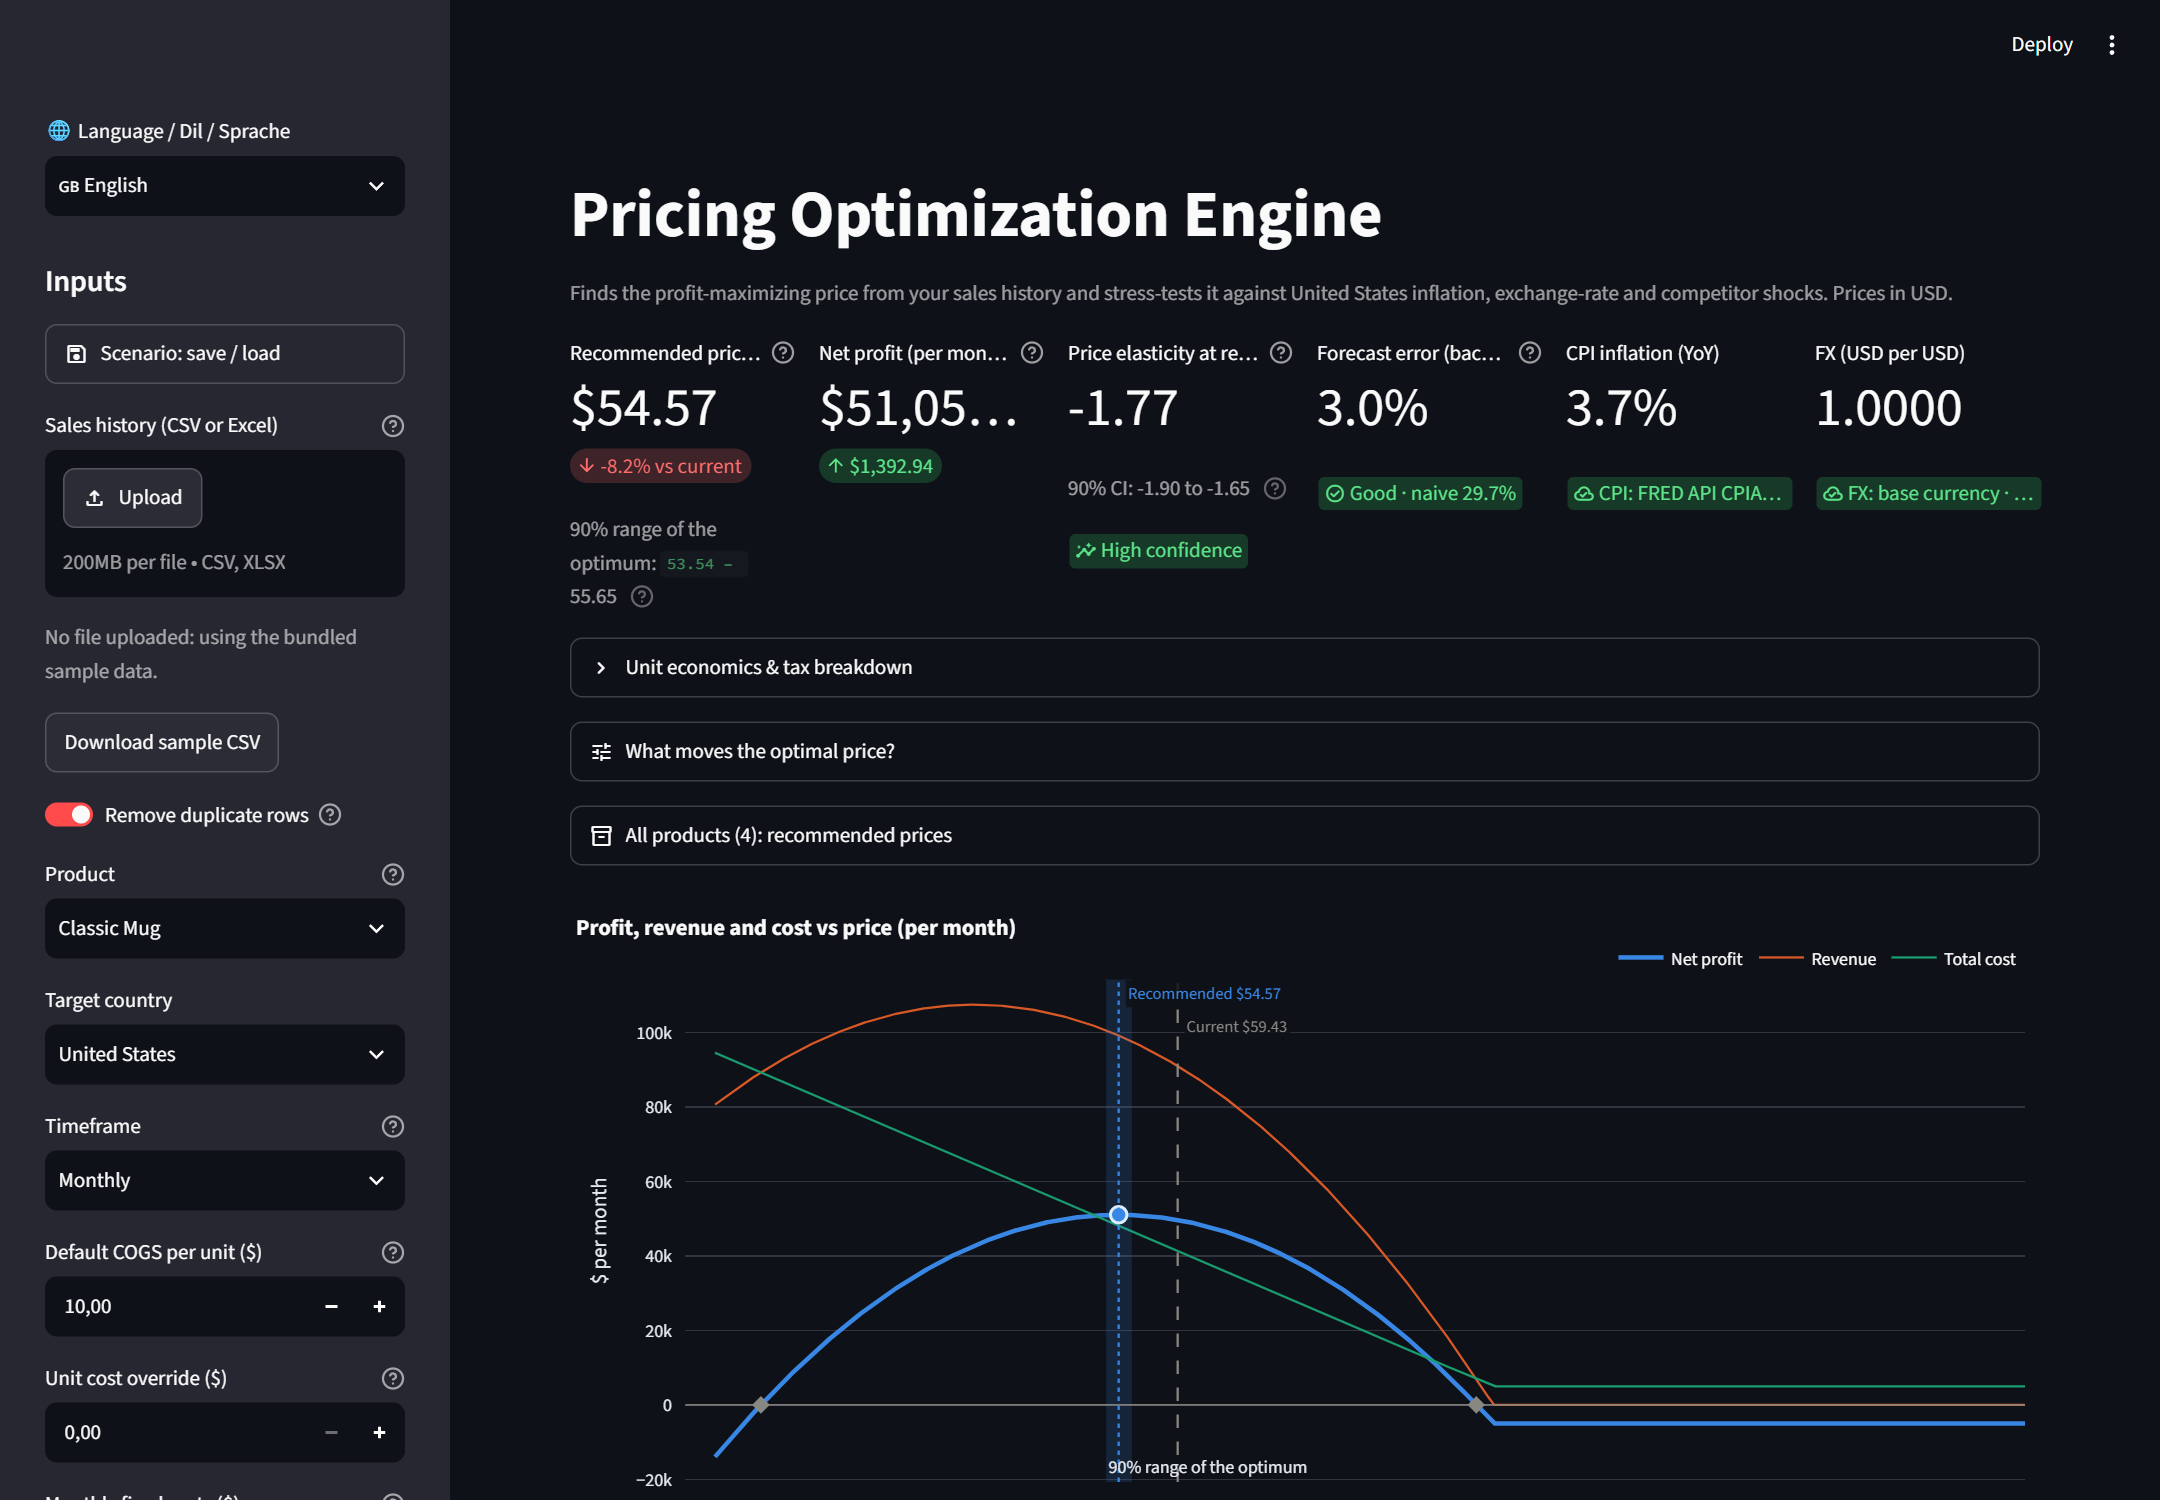
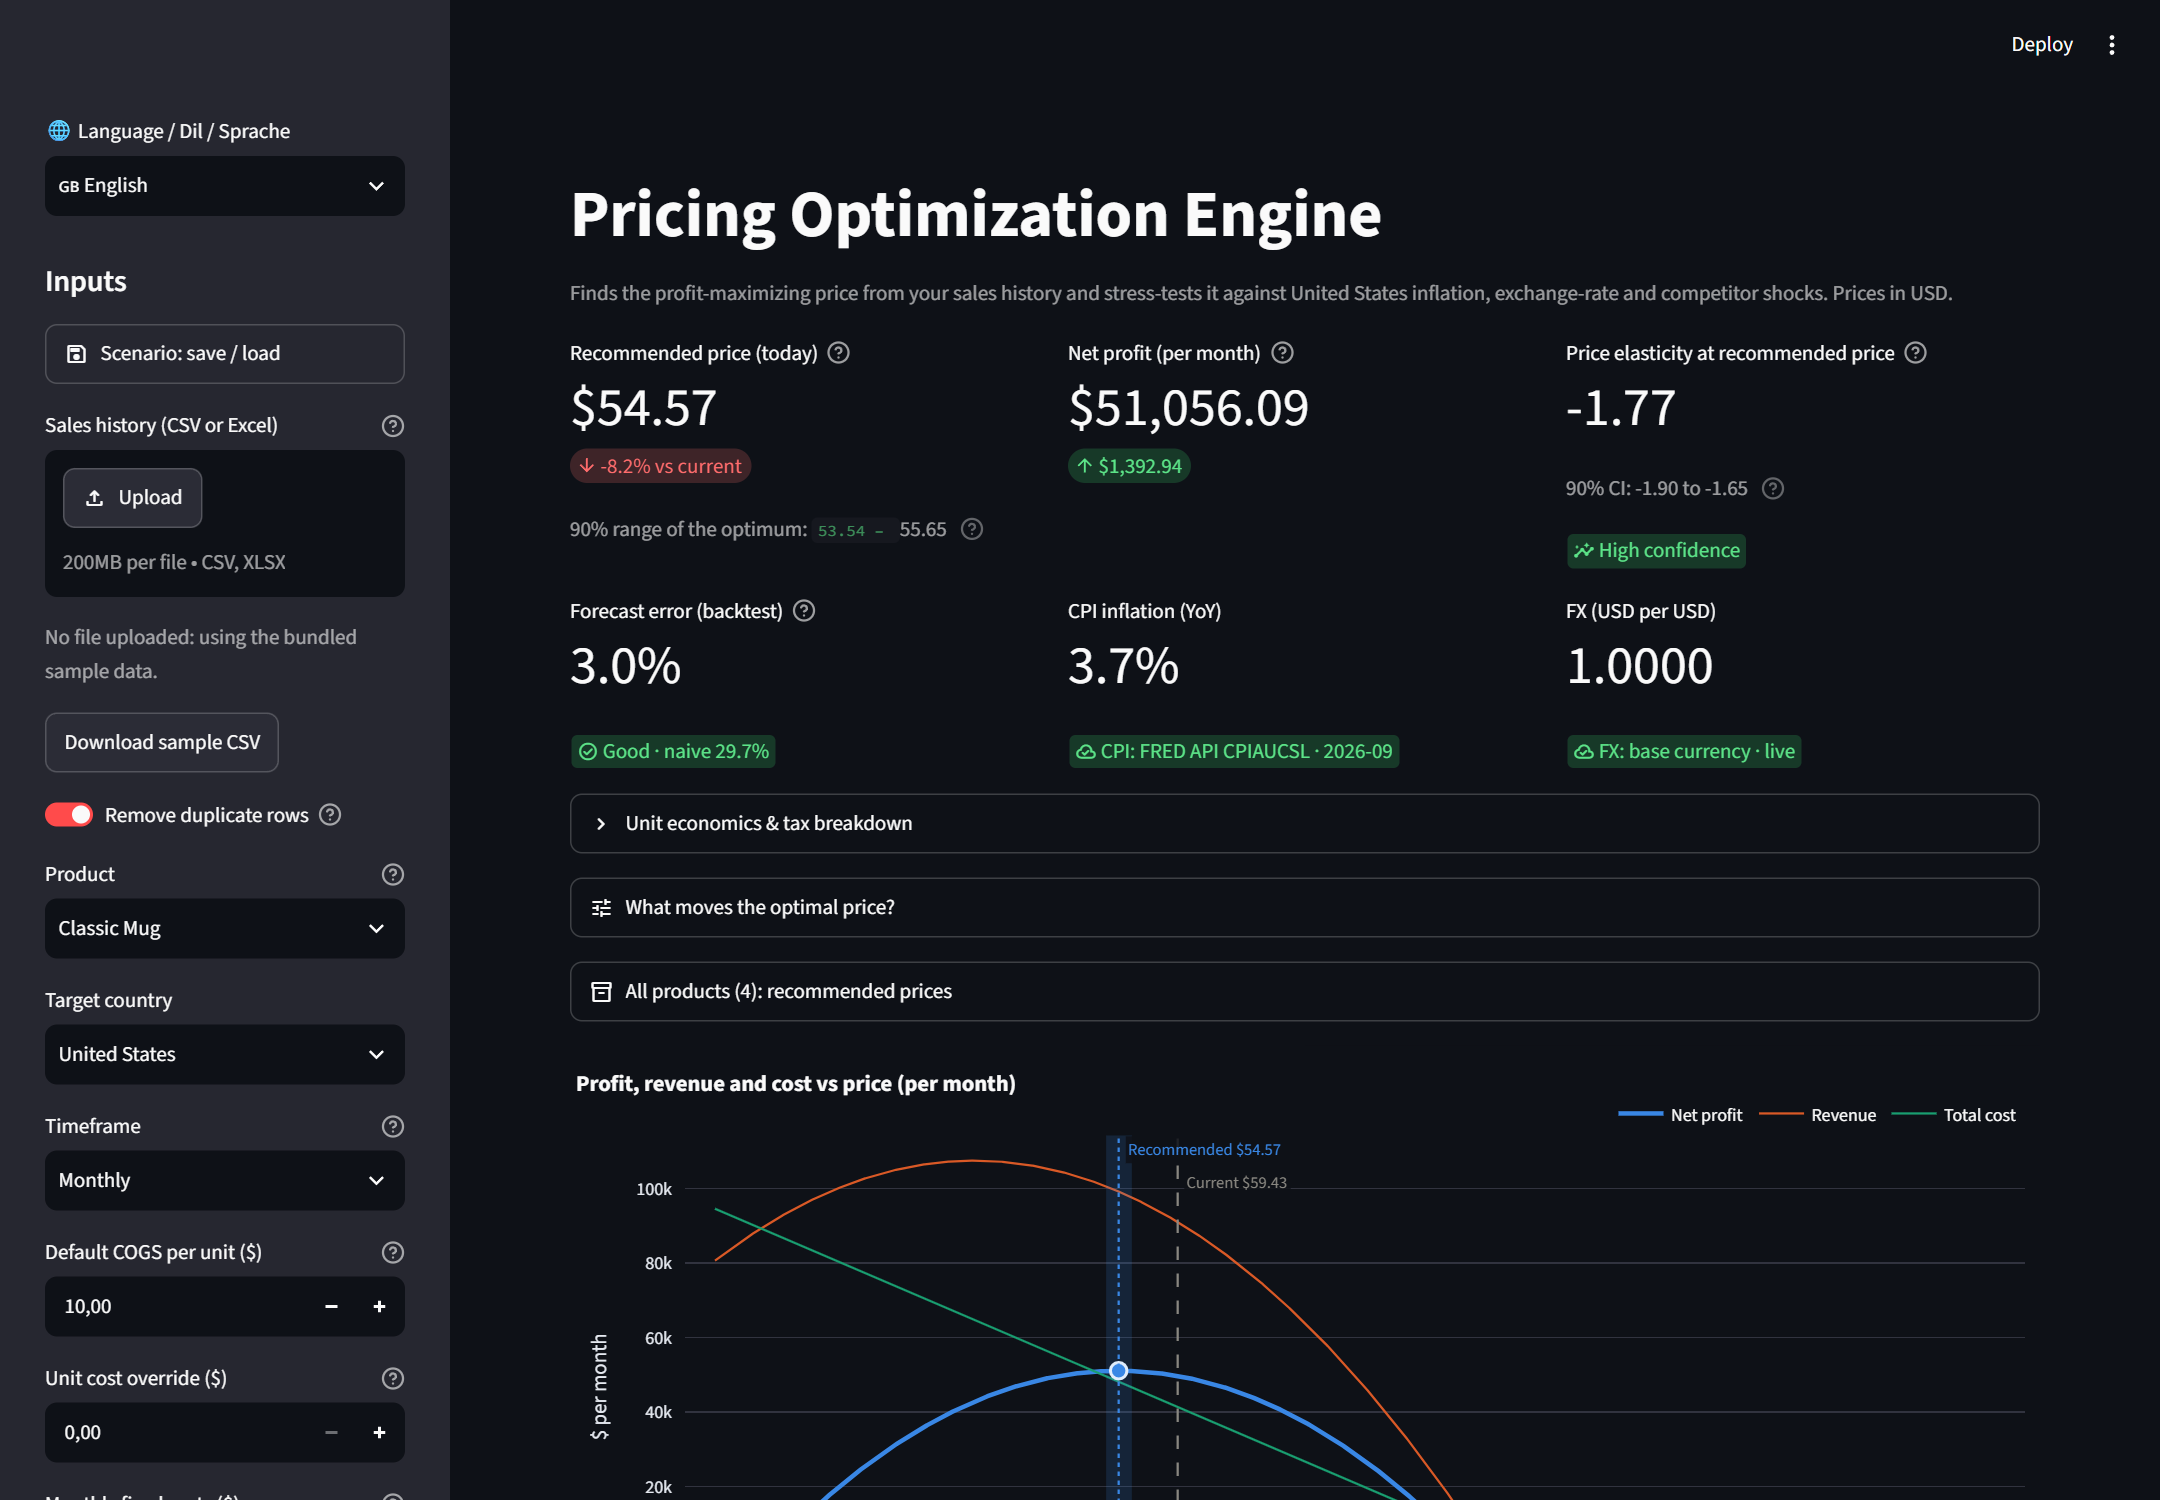
fix: metric cards in two rows of three so amounts aren't cut off
Six cards in one row truncated values like "$51,05..." (and the card
labels) on a 1440px-wide screen. The decision cards (price, profit,
elasticity) now take the first row, model quality and macro inputs
(backtest, CPI, FX) the second. README screenshot updated.

diff --git a/src/app.py b/src/app.py
@@ -501,7 +501,10 @@ unit_margin = sum(v for _, v in breakdown)
 # ---------- metrics ----------
 
 with metrics_area:
-    c1, c2, c3, c4, c5, c6 = st.columns(6)
+    # Two rows of three: six cards in one row cut off amounts like "$51,05…" on a laptop screen.
+    # First row: the decision (price, profit, elasticity); second: model quality and macro inputs.
+    c1, c2, c3 = st.columns(3)
+    c4, c5, c6 = st.columns(3)
     with c1:
         st.metric(t("metric_rec_price"), money(rec.price, sym),
                   t("metric_opt_delta", pct=(rec.price / current_price - 1) * 100),
